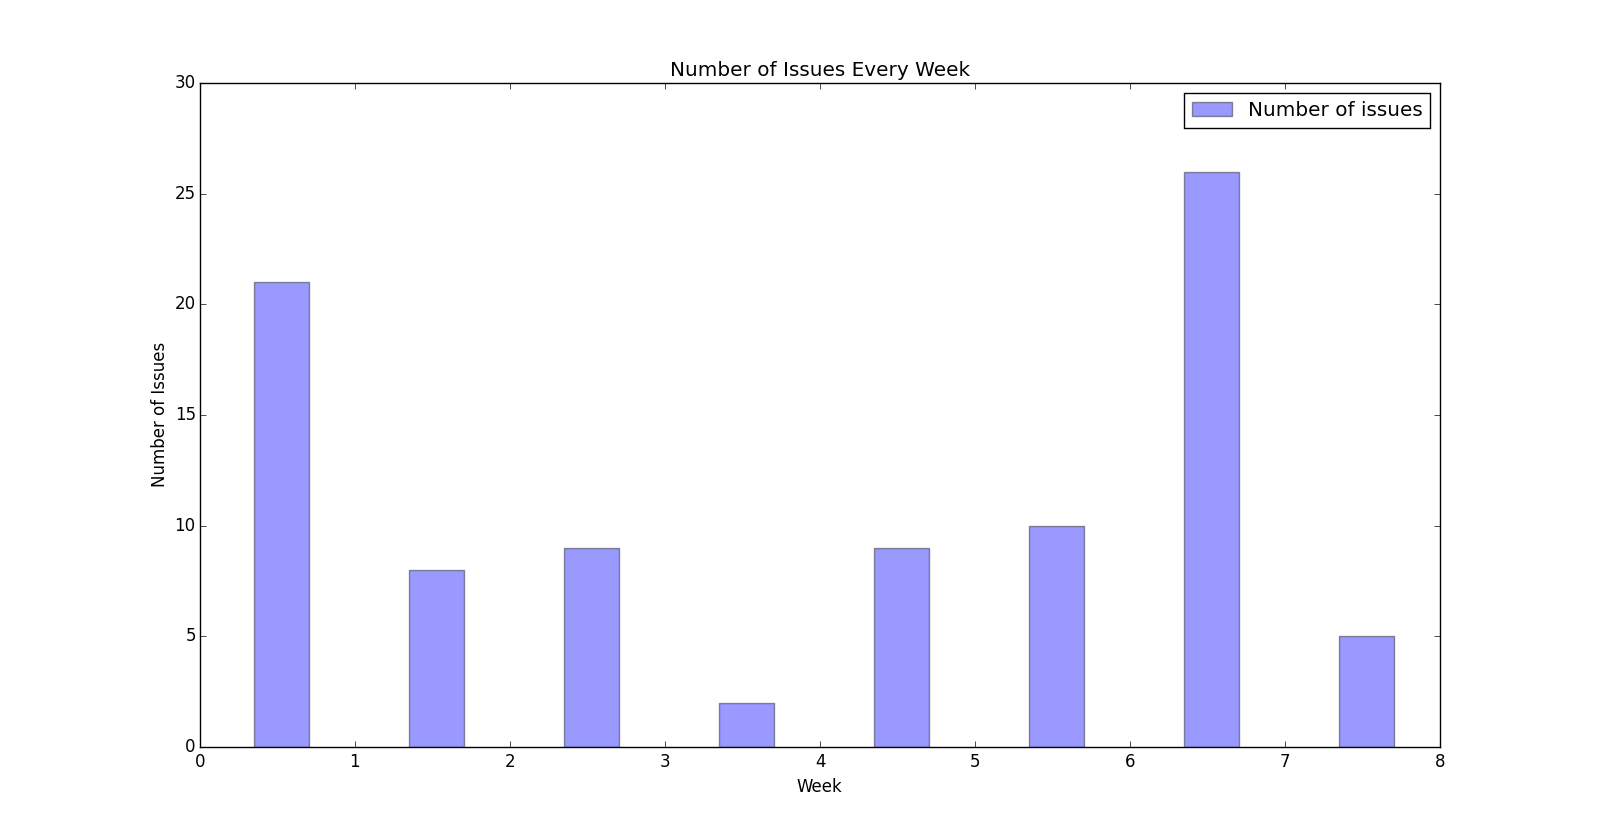
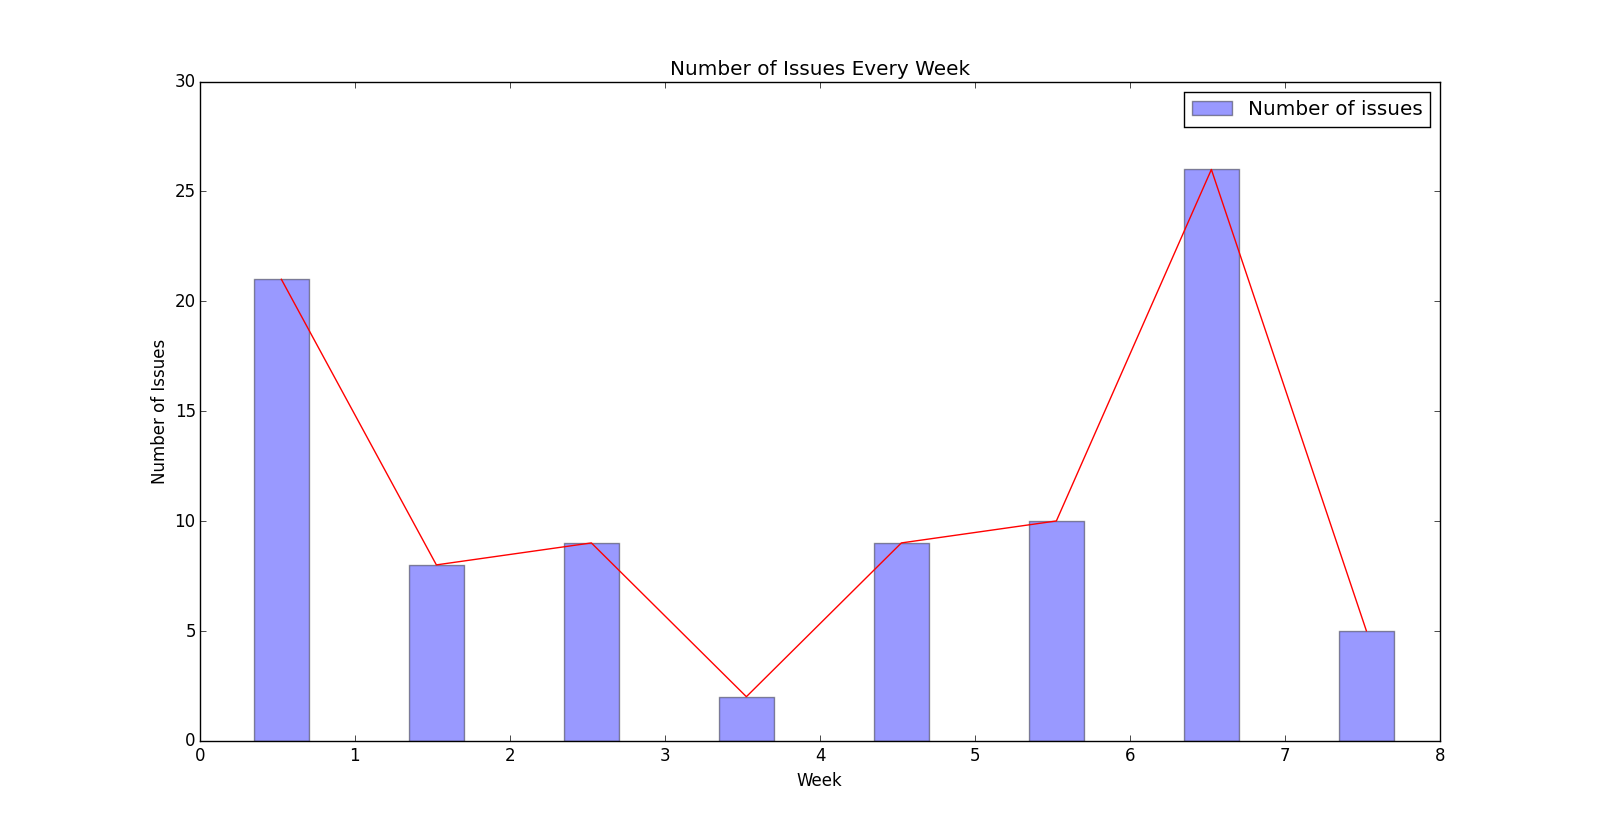
add early warning

diff --git a/earlywarning/earlyWarning.py b/earlywarning/earlyWarning.py
@@ -1,0 +1,204 @@
+# gitabel
+# the world's smallest project management tool
+# reports relabelling times in github (time in seconds since epoch)
+# thanks to dr parnin
+# todo:
+# - ensure events sorted by time
+# - add issue id
+# - add person handle
+ 
+"""
+You will need to add your authorization token in the code.
+Here is how you do it.
+1) In terminal run the following command
+curl -i -u <your_username> -d '{"scopes": ["repo", "user"], "note": "OpenSciences"}' https://api.github.com/authorizations
+2) Enter ur password on prompt. You will get a JSON response.
+In that response there will be a key called "token" .
+Copy the value for that key and paste it on line marked "token" in the attached source code.
+3) Run the python file.
+python gitable.py
+"""
+
+from __future__ import print_function
+import matplotlib.pyplot as plt
+import urllib2
+import json
+import re,datetime
+import sys
+import math
+import numpy as np
+import json
+
+def showFigure(x):
+    plt.plot(range(len(x)), x, 'ro-')   
+    plt.show()
+
+class L():
+    "Anonymous container"
+    def __init__(i,**fields) :
+        i.override(fields)
+    def override(i,d): i.__dict__.update(d); return i
+    def __repr__(i):
+        d = i.__dict__
+        name = i.__class__.__name__
+        return name+'{'+' '.join([':%s %s' % (k,pretty(d[k])) for k in i.show()])+ '}'
+    def show(i):
+        lst = [str(k)+" : "+str(v) for k,v in i.__dict__.iteritems() if v != None]
+        return ',\t'.join(map(str,lst))
+ 
+def secs(d0):
+    d = datetime.datetime(*map(int, re.split('[^\d]', d0)[:-1]))
+    epoch = datetime.datetime.utcfromtimestamp(0)
+    delta = d - epoch
+    return delta.total_seconds()
+
+def dump1(u,issues):
+    token = "ecdca92128429d1ea7bcec9f5341703b68942fa4" 
+    request = urllib2.Request(u, headers={"Authorization" : "token "+token})
+    v = urllib2.urlopen(request).read()
+    w = json.loads(v)
+    if not w: return False
+    for event in w:
+        #print(type(event))
+        issue_id = event['issue']['number']
+        #label_name=None
+        if not event.get('label'):
+            continue
+            
+        #continue
+        #   
+        #else:
+        #    label_name='null'
+        created_at = secs(event['created_at'])
+        action = event['event']
+        label_name=event['label']['name']
+        user = event['actor']['login']
+        milestone = event['issue']['milestone']
+        assignea=event['issue']['assignee']
+        comments=event['issue']['comments']
+        issuecreated_at=secs(event['issue']['created_at'])
+        issueclosed_at=secs(event['issue']['closed_at'])
+        duration=issueclosed_at-issuecreated_at
+        assignee=None
+        
+        if assignea!=None: assignee=assignea['login']
+        if milestone != None : milestone = milestone['title']
+        eventObj = L(when=created_at,
+                    action = action,
+                    what = label_name,
+                    user = user,
+                    milestone = milestone,
+                    assignee=assignee,
+                    comments=comments,
+                    issuecreated_at=issuecreated_at,
+                    issueclosed_at=issueclosed_at,
+                    duration=duration)
+        all_events = issues.get(issue_id)
+        if not all_events: all_events = []
+        all_events.append(eventObj)
+        issues[issue_id] = all_events
+    return True
+ 
+def dump(u,issues):
+    try:
+        return dump1(u, issues)
+    except Exception as e:
+        print(e)
+        print("Contact TA")
+    return False
+ 
+def launchDump():
+    page = 1
+    issues = dict()
+    #feature1: Number of issues
+    numofIssues=0
+    #feature2: Number of different labels
+    numoflabels=0
+    #Number of times each label was used
+    labelnum=dict()
+    assignques=dict()
+    milestonenum=dict()
+
+    createtime=dict()
+    numofiss_nocomments=0
+    numberofissueWeek=list()
+    timeduration=list()
+    
+    numofissuenotlabeled=0
+
+    
+    #f=open("Group6.txt","w")
+
+    #issues2=dict()
+    while(True):
+        #doNext = dump('https://api.github.com/repos/SuperCh-SE-NCSU/ProjectScraping/issues/events?page=' + str(page), issues)
+        #doNext=dump('https://api.github.com/repos/CSC510/SQLvsNOSQL/issues/events?page=' + str(page),issues)
+        doNext=dump('https://api.github.com/repos/CSC510-2015-Axitron/maze/issues/events?page=' + str(page), issues)
+        print("page" + str(page))
+        page += 1
+        if not doNext : break
+ 
+    for issue, events in issues.iteritems():
+        print("ISSUE " + str(issue)+"\n")
+        #f.write("ISSUE "+str(issue)+"\n")
+        milestonetrue=True
+        commentsi=True
+        createat=True
+        labelt=True
+        assigneet=True
+        tduration=True
+        numofIssues=issue
+        for event in events:
+            for k,v in event.__dict__.iteritems():
+                if str(k) is 'what':
+                    if str(v) in labelnum.keys():
+                        labelnum[str(v)]=labelnum[str(v)]+1
+                    else:
+                        labelnum[str(v)]=1
+                    labelt=False
+                if str(k) is 'assignee':
+                    if assigneet==True:
+                        if str(v) in assignques.keys():
+                            assignques[str(v)]=assignques[str(v)]+1
+                        else:
+                            assignques[str(v)]=1
+                        assigneet=False
+                    
+                if str(k) is 'milestone':
+                    if str(v) in milestonenum.keys():
+                        if milestonetrue==True:
+                            milestonenum[str(v)]=milestonenum[str(v)]+1
+                            milestonetrue=False
+                    else:
+                        milestonenum[str(v)]=1
+                if str(k) is 'comments':
+                    if commentsi==True:
+                        if v==0:
+                            numofiss_nocomments=numofiss_nocomments+1
+                        commentsi=False
+                if str(k) is 'issuecreated_at':
+                    if createat==True:
+                        createtime[int(issue)]=v
+                        createat=False
+                if str(k) is 'duration':
+                    if tduration==True:
+                        timeduration.append(v)
+                #if v != None:
+                #    print(str(k)+" : "+str(v)) 
+            #print(type(event))
+            #print(event['issue']['number'])
+            #if event.get('label'):
+            #    print(event['label']['name'])
+            #f.write(event.show()+"\n")
+            #f.write('\n')
+            print(event.show())
+            print('')
+        if labelt==True:
+            numofissuenotlabeled=numofissuenotlabeled+1
+        if createat==True:
+            createtime[int(issue)]=0
+    print(createtime)
+    with open('createtimeproject3.json', 'w') as outfile:
+        json.dump(createtime, outfile)
+        
+launchDump() 

diff --git a/earlywarning/earlyWarningExtractor.py b/earlywarning/earlyWarningExtractor.py
@@ -1,0 +1,47 @@
+import json
+from pprint import pprint
+import matplotlib.pyplot as plt
+import numpy as np
+
+with open('createtimeproject1.json') as data_file:    
+    data = json.load(data_file)
+
+keylist=map(int,data.keys())
+keylist.sort()
+interval=list()
+
+meaninterval=float(0)       #mean of interval
+threshold=float(60*60*12)   #threshold for early warning extractor
+thresholdnumbelow=ArithmeticError
+thresholdnumup=1
+
+belowinterval=0
+upinterval=0
+for i in range(1,len(keylist)-1):
+    interval.append(data[str(keylist[i]).encode('utf-8')]-data[str(keylist[i-1]).encode('utf-8')])
+
+for i in range(0,len(interval)-1):
+    meaninterval=(meaninterval*i+interval[i])/(i+1)
+    if interval[i]<meaninterval-threshold:
+        belowinterval=belowinterval+1
+    else:
+        if interval[i]>meaninterval+2*threshold:
+            upinterval=upinterval+1
+        else:
+            upinterval=0
+            belowinterval=0
+    if belowinterval>thresholdnumbelow:
+        print('the team may be pushing before issue',i)
+        belowinterval=0
+    if upinterval>thresholdnumup:
+        print('the team may be falling behind the schedule before issue',i)
+        upinterval=0
+        
+            
+print interval
+index = np.arange(len(interval))
+plt.xlabel('Interval')
+plt.ylabel('Time(s)')
+plt.title('The Interval of created time of two adjacent issues')
+plt.plot(index,interval,'r*-')
+plt.show()
